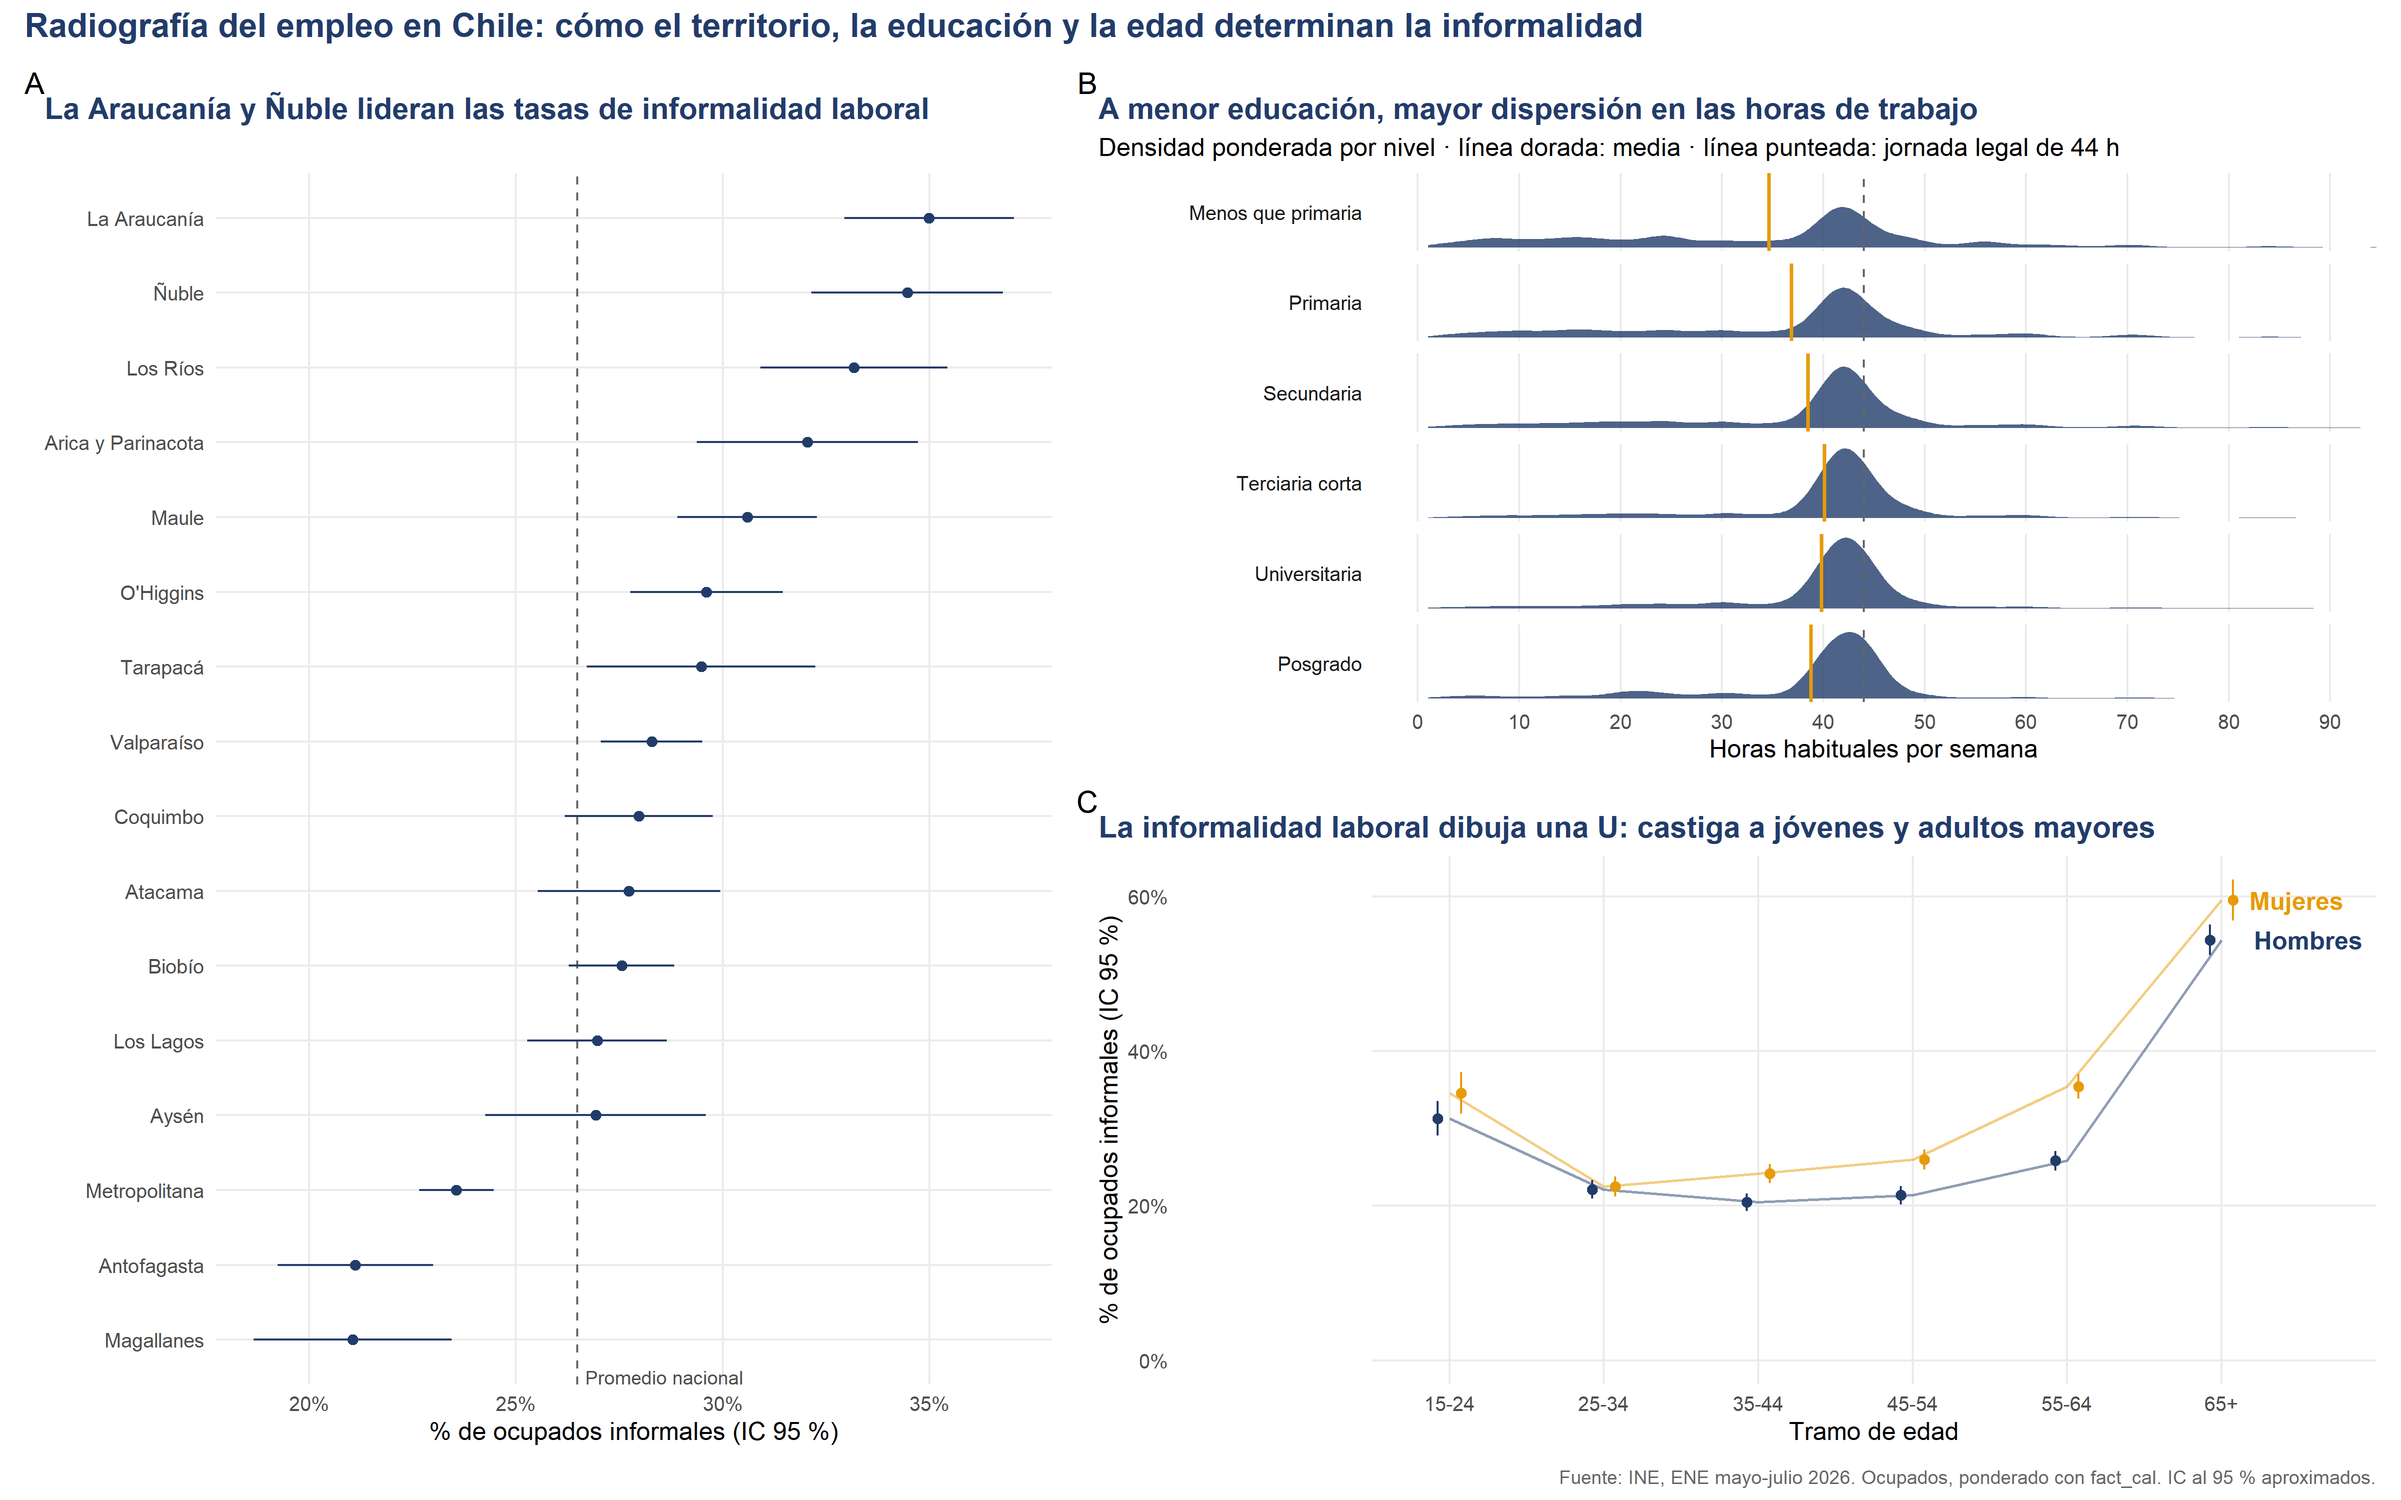
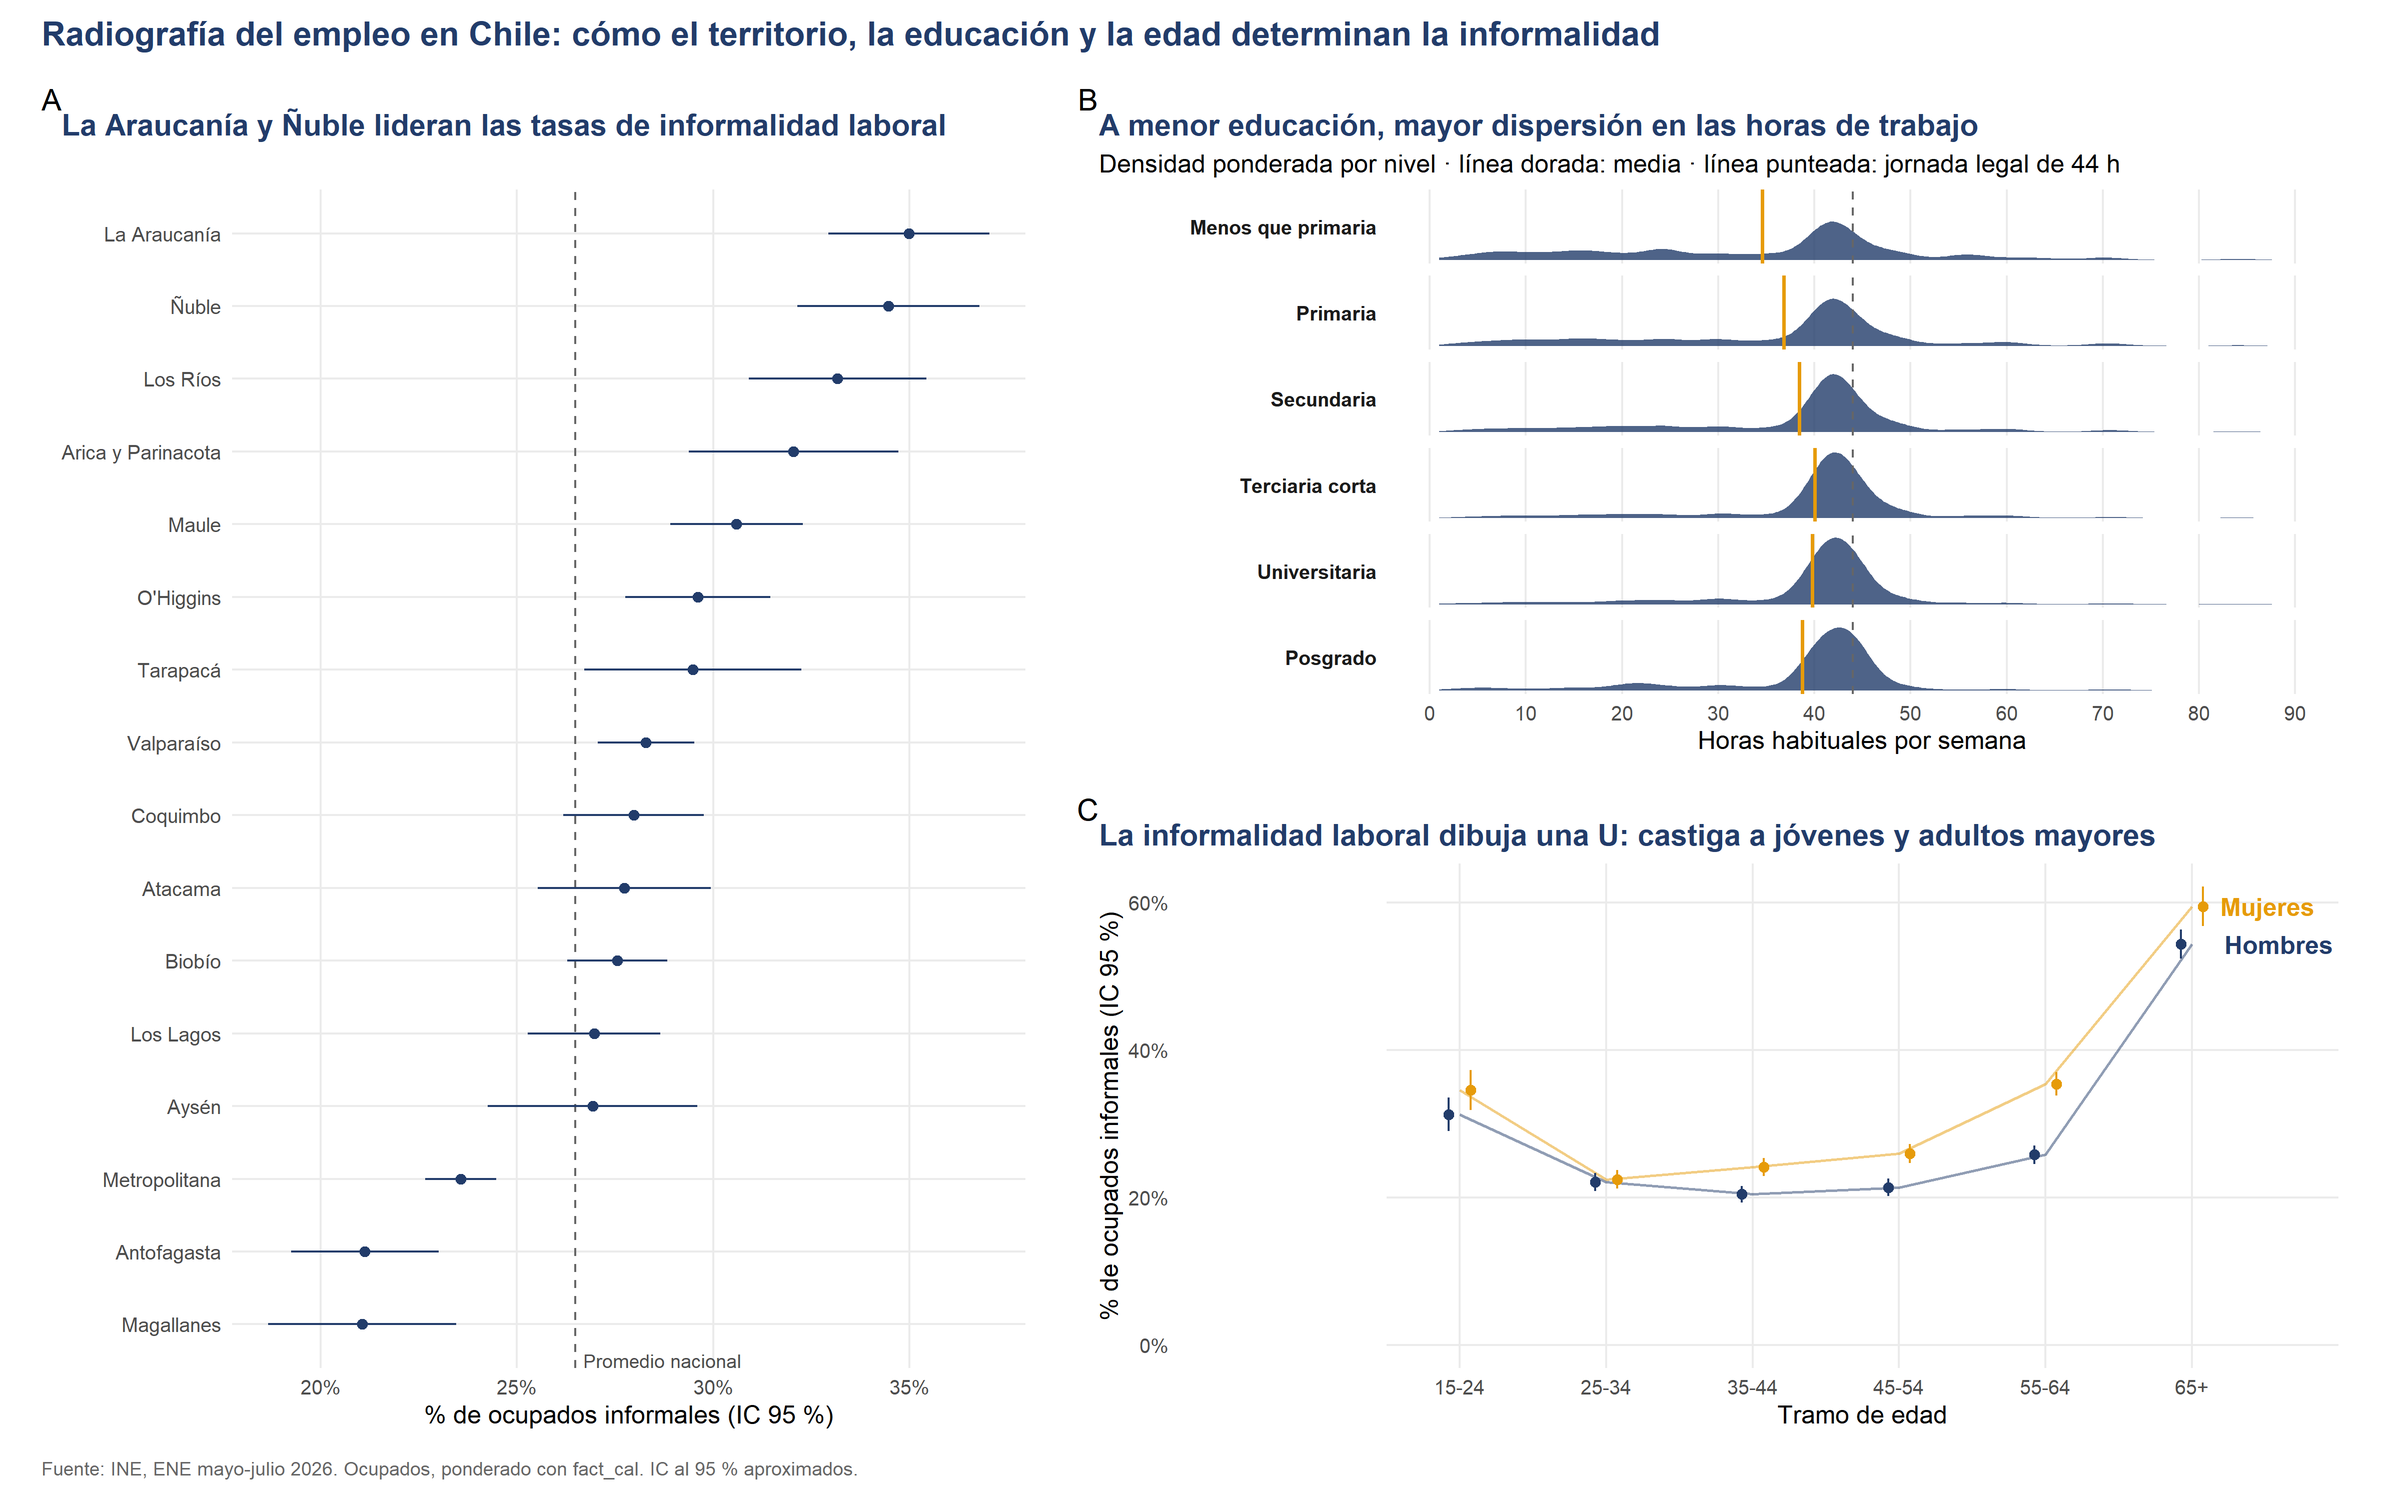
Perfección de los gráficos presentados.
Se trabajó sobre los gráficos entregados para perfeccionar que se vieran con la misma estética entre todos fijando un tema de proyecto con theme_set(). Además, se modificó ciertas líneas de comentarios en los códigos por temas de fluidez.

diff --git a/README.md b/README.md
@@ -58,7 +58,9 @@ precariedad en el país.
 - Herramienta utilizada: Gemini / Claude
 - Para qué la usé: Claude generó una base de los scripts y respuestas modelo, dada 
 la instrucción de mi parte de qué quería lograr en los gráficos; también lo usé 
-para entender el código y corregir errores.
+para entender el código y corregir errores. Se trabajó también, posterior a la 
+entrega, el perfeccionamiento de los gráficos por temas estéticos; para ello, se 
+consultó sobre el código pertinente para llevar a cabo la estética esperada.
 - Qué hice yo: revisé y entendí cada línea, elegí y escribí los títulos, adapté 
 el código, y redacté las respuestas y la reflexión con mis palabras.
 - Verificación: confirmo que entiendo y puedo explicar todo lo que entrego.
